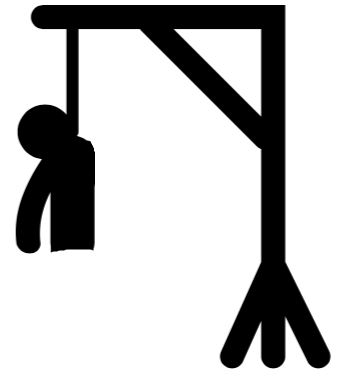
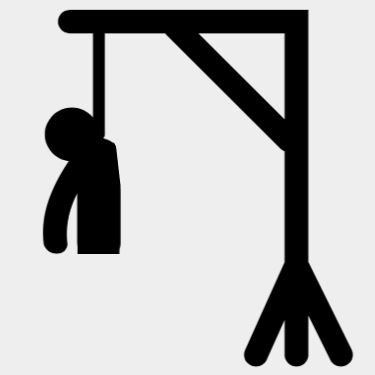
new image

diff --git a/src/UI/GameBoard.java b/src/UI/GameBoard.java
@@ -1,8 +1,6 @@
 package UI;
-import java.awt.BorderLayout;
-import java.awt.Dimension;
-import java.awt.GridLayout;
-import java.awt.Toolkit;
+
+import java.awt.*;
 import java.awt.event.MouseListener;
 import java.awt.event.MouseEvent;
 import java.awt.event.WindowAdapter;
@@ -12,6 +10,7 @@ import javax.swing.JLabel;
 import javax.swing.JOptionPane;
 import javax.swing.JPanel;
 import javax.swing.JTextField;
+
 
 public class GameBoard extends JFrame {
 
@@ -44,16 +43,16 @@ public class GameBoard extends JFrame {
 
     private JLabel incorrect;
 
-    private String password;
+    private String word;
 
-    private StringBuilder passwordHidden;
+    private StringBuilder hiddenWord;
 
     public GameBoard() {
 
         WIDTH = 1000;
         HEIGHT = 600;
         MAX_INCORRECT = 6;
-        MAX_PASSWORD_LENGTH = 10;
+        MAX_PASSWORD_LENGTH = 15;
 
         HANGMAN_IMAGE_DIRECTORY = "src/Resources/";
         HANGMAN_IMAGE_TYPE = ".JPG";
@@ -73,12 +72,13 @@ public class GameBoard extends JFrame {
 
         numIncorrect = 0;
 
-        correct = new JLabel("Word: ");
+        correct = new JLabel("WORD: ");
+        correct.setFont(new Font("Arial", Font.PLAIN, 28));
         incorrect = new JLabel("Incorrect: " + numIncorrect);
-        password = new String();
-        passwordHidden = new StringBuilder();
+        word = new String();
+        hiddenWord = new StringBuilder();
 
-        getPassword();
+        getHiddenWord();
         addTextPanel();
         addLetterRack();
         addHangman();
@@ -116,7 +116,7 @@ public class GameBoard extends JFrame {
 
     private void addLetterRack() {
 
-        gameRack = new LetterRack(password, LETTER_IMAGE_DIRECTORY, LETTER_IMAGE_TYPE);
+        gameRack = new LetterRack(word, LETTER_IMAGE_DIRECTORY, LETTER_IMAGE_TYPE);
         gameRack.attachListeners(new TileListener());
         add(gameRack, BorderLayout.SOUTH);
 
@@ -130,42 +130,42 @@ public class GameBoard extends JFrame {
         add(hangmanPanel, BorderLayout.CENTER);
     }
 
-    private void getPassword() {
+    private void getHiddenWord() {
 
         String[] options = {"Let's play", "Quit"};
-        JPanel passwordPanel = new JPanel();
-        JLabel passwordLabel = new JLabel("Enter password to be guessed: ");
-        JTextField passwordText = new JTextField(MAX_PASSWORD_LENGTH);
-        passwordPanel.add(passwordLabel);
-        passwordPanel.add(passwordText);
+        JPanel hiddenWordPanel = new JPanel();
+        JLabel hiddenWordLabel = new JLabel("Enter hidden word to be guessed: ");
+        JTextField hiddenWordText = new JTextField(MAX_PASSWORD_LENGTH);
+        hiddenWordPanel.add(hiddenWordLabel);
+        hiddenWordPanel.add(hiddenWordText);
         int confirm = -1;
 
-        while (password.isEmpty()) {
+        while (word.isEmpty()) {
 
             confirm = -1;
-            confirm = JOptionPane.showOptionDialog(null, passwordPanel, "Enter password", JOptionPane.DEFAULT_OPTION, JOptionPane.QUESTION_MESSAGE, null, options, options[0]);
+            confirm = JOptionPane.showOptionDialog(null, hiddenWordPanel, "Enter hidden word", JOptionPane.DEFAULT_OPTION, JOptionPane.QUESTION_MESSAGE, null, options, options[0]);
 
             if (confirm == 0) {
-                password = passwordText.getText();
+                word = hiddenWordText.getText();
 
-                if (!password.matches("[a-zA-Z]+") || password.length() > MAX_PASSWORD_LENGTH) {
+                if (!word.matches("[a-zA-Z]+") || word.length() > MAX_PASSWORD_LENGTH) {
 
-                    JOptionPane.showMessageDialog(null, JOptionPane.ERROR_MESSAGE);
-                    password = "";
+                    JOptionPane.showMessageDialog(null, "Word is invalid");
+                    word = "";
                 }
             } else if (confirm == 1)
                 System.exit(0);
         }
 
-        passwordHidden.append(password.replaceAll(".", "*"));
-        correct.setText(correct.getText() + passwordHidden.toString());
+        hiddenWord.append(word.replaceAll(".", "-"));
+        correct.setText(correct.getText() + hiddenWord.toString());
 
     }
 
     private void newGameDialog() {
 
         int dialogButton = JOptionPane.YES_NO_OPTION;
-        int dialogResult = JOptionPane.showConfirmDialog(null, "The password was:" + password + "Would you like to start a new game?", "Play Again", dialogButton);
+        int dialogResult = JOptionPane.showConfirmDialog(null, "The password was: " + word + "\nWould you like to start a new game?", "Play Again?", dialogButton);
         if (dialogResult == JOptionPane.YES_OPTION)
             initialize();
         else System.exit(0);
@@ -185,18 +185,18 @@ public class GameBoard extends JFrame {
                 LetterTileLoader tilePressed = (LetterTileLoader) source;
                 c = tilePressed.guess();
 
-                while ((index = password.toLowerCase().indexOf(c, index)) != -1) {
+                while ((index = word.toLowerCase().indexOf(c, index)) != -1) {
 
-                    passwordHidden.setCharAt(index, password.charAt(index));
+                    hiddenWord.setCharAt(index, word.charAt(index));
                     index++;
                     updated = true;
                 }
 
                 if (updated) {
 
-                    correct.setText("Word: " + passwordHidden.toString());
+                    correct.setText("Word: " + hiddenWord.toString());
 
-                    if (passwordHidden.toString().equals(password)) {
+                    if (hiddenWord.toString().equals(word)) {
 
                         gameRack.removeListeners();
                         gameHangman.winImage();

diff --git a/src/UI/GameSceneController.java b/src/UI/GameSceneController.java
@@ -1,5 +1,5 @@
 package UI;
-/*
+
 import javafx.event.ActionEvent;
 import javafx.fxml.FXML;
 import javafx.scene.image.ImageView;
@@ -14,76 +14,6 @@ import java.util.Random;
 
 public class GameSceneController {
 
-    @FXML Text hiddenWordField;
-    @FXML ImageView hangmanImage;
-
-    //stores the hidden word
-    String hiddenWord;
-    //which words have the user guessed and how many have they left
-    StringBuilder currentGuess;
-    ArrayList<Character> previousGuesses = new ArrayList<>();
 
 
-    int maxTries = 6;
-    int currentTry = 0;
-
-    //creating arraylist and enable us to make "changes" words into dashes
-    ArrayList<String> dictionary = new ArrayList<>();
-    private static FileReader fileReader;
-    private static BufferedReader bufferedFileReader;
-
-    public GameSceneController() throws IOException {
-        connectLibrary();
-        hiddenWord = pickWord();
-        currentGuess = initializeCurrentGuess();
-    }
-
-    // Reads lines from dictionary.txt and add them to dictionary arraylist
-    // Checks is dictionary library is available
-    public void connectLibrary() throws IOException {
-        try {
-            File inFile = new File("src//dictionary.txt");
-            fileReader = new FileReader(inFile);
-            bufferedFileReader = new BufferedReader(fileReader);
-            String currentLine = bufferedFileReader.readLine();
-            while (currentLine != null) {
-                dictionary.add(currentLine);
-                currentLine = bufferedFileReader.readLine();
-            }
-            bufferedFileReader.close();
-            fileReader.close();
-        }
-        catch (IOException e) {
-            System.out.println("Could not find library");
-        }
-    }
-
-    //picking a random word from dictionary
-    public String pickWord() {
-        Random rand = new Random();
-        int wordIndex = Math.abs(rand.nextInt())%dictionary.size();
-        return dictionary.get(wordIndex);
-    }
-
-    //creating the hiddenword with dashes and space (_ _ _ _ _)
-    public StringBuilder initializeCurrentGuess() {
-        StringBuilder transWord = new StringBuilder();
-        for (int i = 0; i< hiddenWord.length()*2; i++) {
-            if (i%2 == 0) {
-                transWord.append("_");
-            }
-            else {
-                transWord.append(" ");
-            }
-        }
-        return transWord;
-    }
-
-    //Shows the hidden word
-    public void getHiddenWord(ActionEvent actionEvent) {
-
-        hiddenWordField.setText(currentGuess.toString());
-
-    }
 }
-*/

diff --git a/src/UI/HangManLoarder.java b/src/UI/HangManLoarder.java
@@ -31,8 +31,8 @@ public class HangManLoarder extends JLabel {
 
     public HangManLoarder(String imageBaseName, String imageDirectory, String imageType) {
 
-        preferredHeight = 272;
-        preferredWidth = 282;
+        preferredHeight = 300;
+        preferredWidth = 300;
 
         IMAGE_BASE_NAME = imageBaseName;
         IMAGE_DIRECTORY = imageDirectory;

diff --git a/src/UI/LetterTileLoader.java b/src/UI/LetterTileLoader.java
@@ -35,8 +35,8 @@ public class LetterTileLoader extends JLabel {
 
     public LetterTileLoader(char imageLetter, String imageDirectory, String imageType) {
 
-        preferredHeight = 50;
-        preferredWidth = 65;
+        preferredHeight = 70;
+        preferredWidth = 70;
 
         IMAGE_LETTER = imageLetter;
         IMAGE_DIRECTORY = imageDirectory;

diff --git a/src/UI/LetterRack.java b/src/UI/LetterRack.java
@@ -26,7 +26,7 @@ public class LetterRack extends JPanel {
     private ArrayList<LetterTileLoader> rack;
 
     public LetterRack(){
-        this ("password", "Resources", ".jpeg");
+        this ("password", "src/Resources/", ".JPG");
     }
 
     public LetterRack (String inPassword, String imageDirectory, String imageType) {
